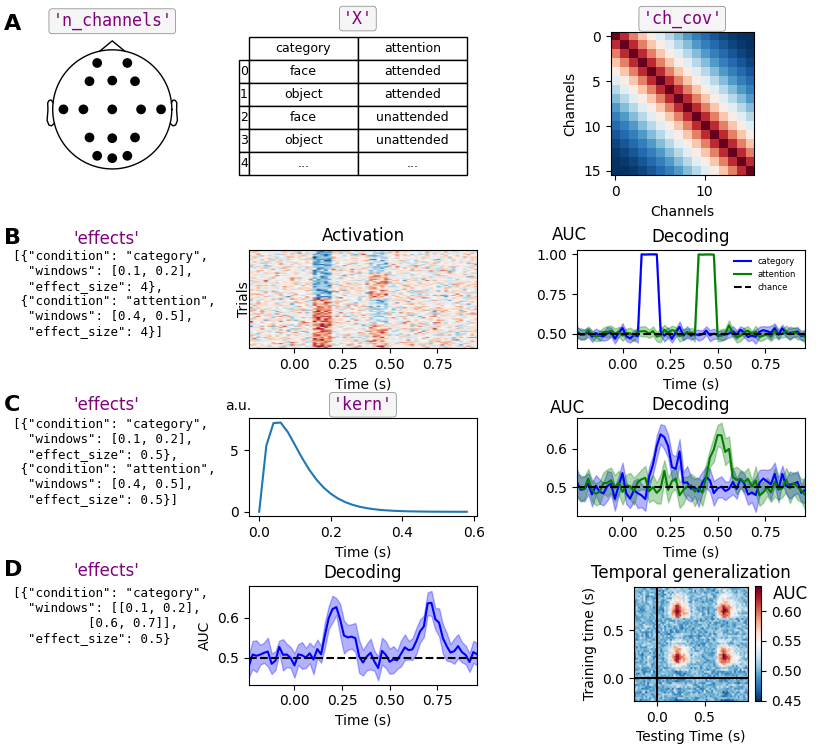
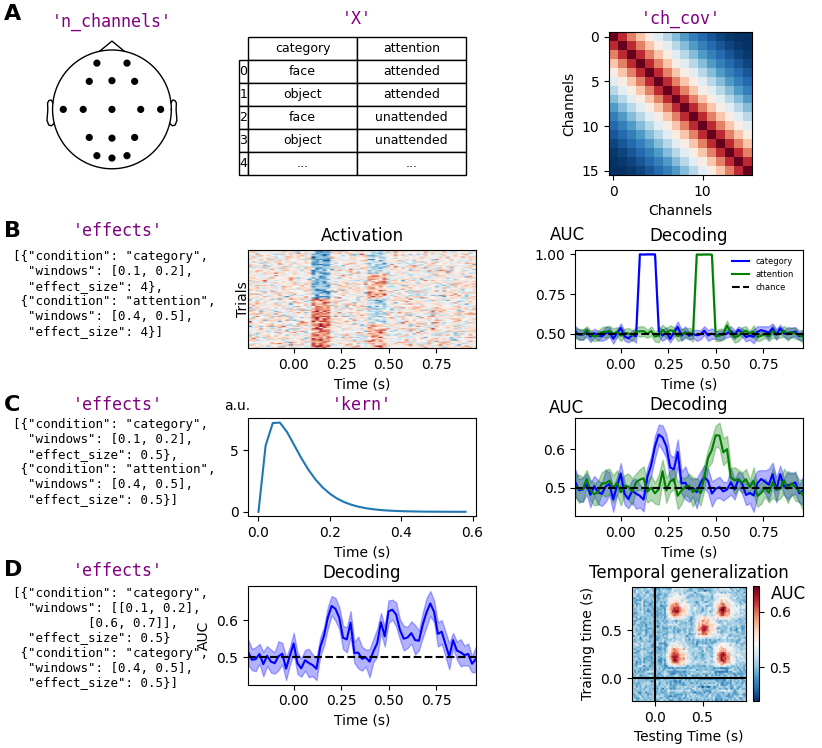
Update figure1

diff --git a/paper/figure1.py b/paper/figure1.py
@@ -71,6 +71,9 @@ effects_medium = [
 effects_temp_gen = [
     {"condition": 'category',
         "windows": [[0.1, 0.2], [0.6, 0.7]],
+        "effect_size": 0.5},
+    {"condition": 'category',
+        "windows": [[0.4, 0.5]],
         "effect_size": 0.5}
 ]
 
@@ -182,8 +185,9 @@ text = (
     '  "effect_size": 4}]'
 )
 ax[1, 0].text(0, 1, text, fontsize=12, va='top', ha='left', family='monospace')
-ax[1, 0].set_title("'effects'", fontsize=12, fontfamily='monospace', color='purple', 
-                   bbox=dict(boxstyle="round,pad=0.2", fc="whitesmoke", ec="gray", lw=0.5))
+plt.figure(1).text(0.0890, 0.2302, "'effects'", fontsize=12, transform=plt.figure(1).transFigure, 
+              fontfamily='monospace', color='purple', 
+              bbox=dict(boxstyle="round,pad=0.2", fc="whitesmoke", ec="gray", lw=0.5))
 ax[1, 0].set_axis_off()
 
 # 3.2.2. Middle: Plot activation:
@@ -224,8 +228,9 @@ text = (
     '  "effect_size": 0.5}]'
 )
 ax[2, 0].text(0, 1, text, fontsize=12, va='top', ha='left', family='monospace')
-ax[2, 0].set_title("'effects'", fontsize=12, fontfamily='monospace', color='purple', 
-                   bbox=dict(boxstyle="round,pad=0.2", fc="whitesmoke", ec="gray", lw=0.5))
+plt.figure(1).text(0.0890, 0.4516, "'effects'", fontsize=12, transform=plt.figure(1).transFigure, 
+              fontfamily='monospace', color='purple', 
+              bbox=dict(boxstyle="round,pad=0.2", fc="whitesmoke", ec="gray", lw=0.5))
 ax[2, 0].set_axis_off()
 
 
@@ -256,11 +261,15 @@ ax[2, 2].set_title('Decoding')
 text = (
     '[{"condition": "category",\n'
     '  "windows": [[0.1, 0.2],\n          [0.6, 0.7]],\n'
-    '  "effect_size": 0.5}'
+    '  "effect_size": 0.5} \n'
+    ' {"condition": "category",\n'
+    '  "windows": [0.4, 0.5],\n'
+    '  "effect_size": 0.5}]'
 )
 ax[3, 0].text(0, 1, text, fontsize=12, va='top', ha='left', family='monospace')
-ax[3, 0].set_title("'effects'", fontsize=12, fontfamily='monospace', color='purple', 
-                   bbox=dict(boxstyle="round,pad=0.2", fc="whitesmoke", ec="gray", lw=0.5))
+plt.figure(1).text(0.0890, 0.7802, "'effects'", fontsize=12, transform=plt.figure(1).transFigure, 
+              fontfamily='monospace', color='purple', 
+              bbox=dict(boxstyle="round,pad=0.2", fc="whitesmoke", ec="gray", lw=0.5))
 ax[3, 0].set_axis_off()
 
 # 3.2.2. Middle: Plot time resolved decoding:
@@ -302,7 +311,6 @@ plt.figure(1).axes[1].set_position([0.301515, 0.596774, 0.264390, 0.360550])
 plt.figure(1).axes[2].set(position=[0.7382, 0.8422, 0.1829, 0.1291])
 plt.figure(1).axes[2].set_position([0.739923, 0.765435, 0.173719, 0.191882])
 plt.figure(1).axes[3].set_position([0.018076, 0.321180, 0.182232, 0.264405])
-plt.figure(1).axes[3].title.set(visible=False)
 plt.figure(1).axes[3].texts[0].set(position=(-0.0116, 1.304), fontsize=9.)
 plt.figure(1).axes[4].set(position=[0.3015, 0.5349, 0.2767, 0.1312])
 plt.figure(1).axes[4].yaxis.labelpad = -1.279052
@@ -312,33 +320,25 @@ plt.figure(1).axes[5].yaxis.labelpad = -23.423687
 plt.figure(1).axes[5].get_legend().set(visible=True)
 plt.figure(1).axes[5].get_yaxis().get_label().set(position=(448.9, 1.061), fontsize=12., rotation=0.)
 plt.figure(1).axes[6].set_position([0.018076, -0.045751, 0.182232, 0.264405])
-plt.figure(1).axes[6].title.set(visible=False)
 plt.figure(1).axes[6].texts[0].set(position=(-0.0116, 1.841), fontsize=9.)
 plt.figure(1).axes[7].set(position=[0.3015, 0.3098, 0.2767, 0.1312])
 plt.figure(1).axes[8].set(position=[0.699, 0.3098, 0.2767, 0.1312], ylabel='')
-plt.figure(1).axes[8].get_yaxis().get_label().set(text='')
 plt.figure(1).axes[9].set(visible=True)
 plt.figure(1).axes[9].set_position([0.019019, -0.183560, 0.182273, 0.264354])
-plt.figure(1).axes[9].title.set(visible=False)
 plt.figure(1).axes[9].texts[0].set(position=(-0.0167, 1.511), fontsize=9.)
 plt.figure(1).axes[10].set(position=[0.3015, 0.08473, 0.2767, 0.1312])
 plt.figure(1).axes[11].set(position=[0.7679, 0.063, 0.139, 0.1529], xlabel='Testing Time (s)', ylabel='Training time (s)')
 plt.figure(1).axes[11].get_xaxis().get_label().set(position=(0.5, 253.2), text='Testing Time (s)')
 plt.figure(1).axes[11].get_yaxis().get_label().set(position=(447., 0.5), text='Training time (s)')
-plt.figure(1).text(0.0890, 0.4516, "'effects'", transform=plt.figure(1).transFigure, fontsize=12., color='#800080ff')  # id=plt.figure(1).texts[0].new
-plt.figure(1).text(0.0890, 0.2302, "'effects'", transform=plt.figure(1).transFigure, fontsize=12., color='#800080ff')  # id=plt.figure(1).texts[1].new
-plt.figure(1).text(0.0893, 0.7802, "'effects'", transform=plt.figure(1).transFigure, fontsize=12., color='#800080ff')  # id=plt.figure(1).texts[2].new
-plt.figure(1).texts[2].set_position([0.089034, 0.673160])
+plt.figure(1).texts[2].set(position=(0.089, 0.684))
 plt.figure(1).text(0.9363, 0.1997, 'AUC', transform=plt.figure(1).transFigure, fontsize=12.)  # id=plt.figure(1).texts[3].new
 plt.figure(1).text(0.0053, 0.9731, 'A', transform=plt.figure(1).transFigure, fontsize=16., weight='bold')  # id=plt.figure(1).texts[4].new
-plt.figure(1).texts[4].set_position([0.005295, 0.960005])
-plt.figure(1).text(0.0053, 0.7802, 'B', transform=plt.figure(1).transFigure, fontsize=16., weight='bold')  # id=plt.figure(1).texts[5].new
-plt.figure(1).texts[5].set_position([0.005316, 0.673160])
+plt.figure(1).text(0.0053, 0.6825, 'B', transform=plt.figure(1).transFigure, fontsize=16., weight='bold')  # id=plt.figure(1).texts[5].new
 plt.figure(1).text(0.0053, 0.4500, 'C', transform=plt.figure(1).transFigure, fontsize=16., weight='bold')  # id=plt.figure(1).texts[6].new
 plt.figure(1).text(0.0053, 0.2302, 'D', transform=plt.figure(1).transFigure, fontsize=16., weight='bold')  # id=plt.figure(1).texts[7].new
 plt.figure(1).text(0.2725, 0.4516, 'a.u.', transform=plt.figure(1).transFigure, )  # id=plt.figure(1).texts[8].new
 plt.figure(1).text(0.6664, 0.4483, 'AUC', transform=plt.figure(1).transFigure, fontsize=12.)  # id=plt.figure(1).texts[9].new
 #% end: automatic generated code from pylustrator
-
+plt.show()
 plt.savefig('./paper/figure1.png')
 plt.close()
